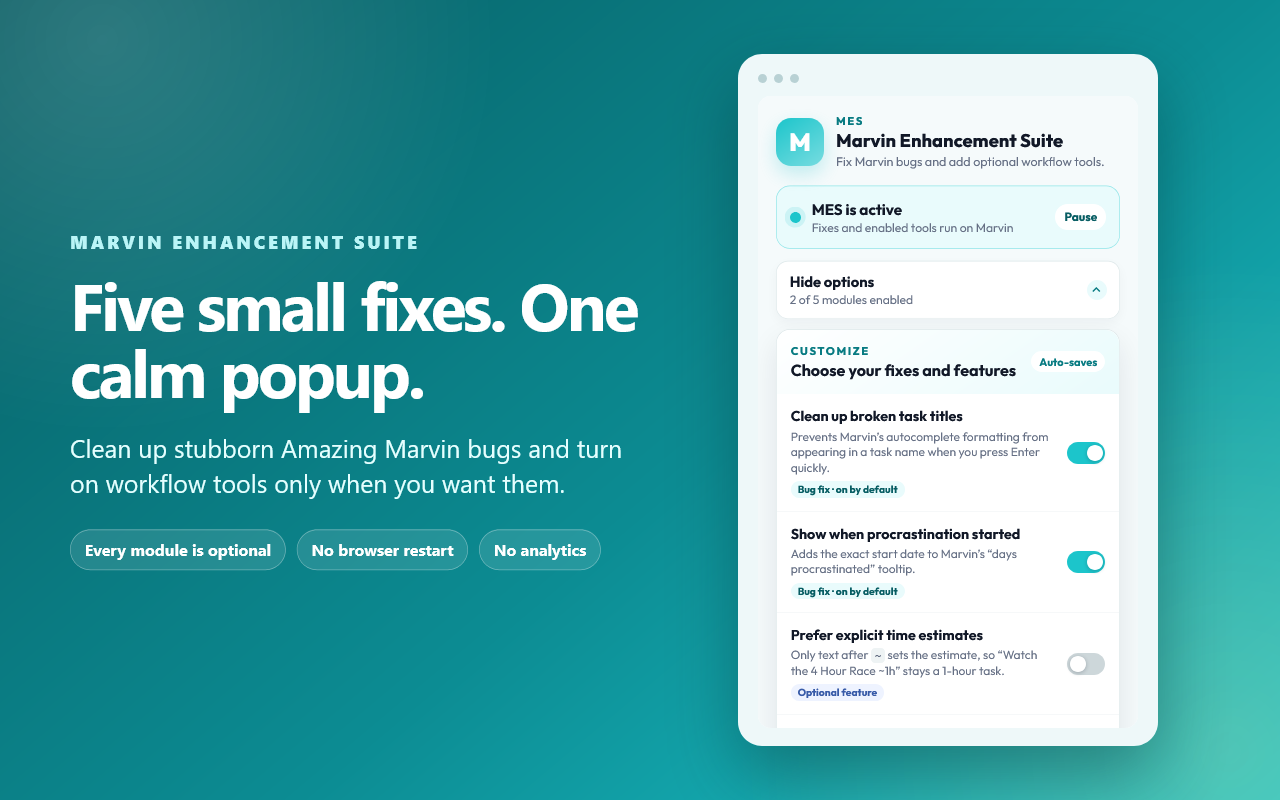
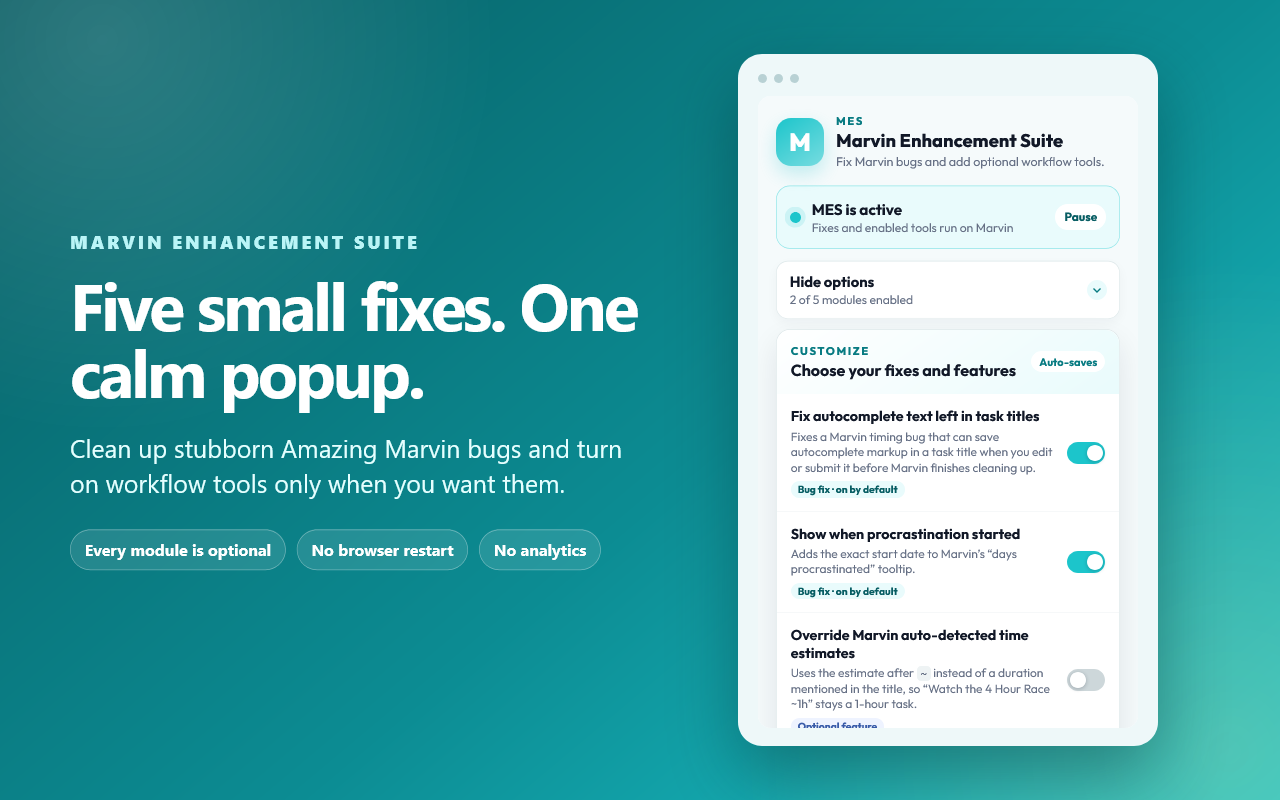
Clarify feature copy and sharpen screenshots

Changed region(s): [[0.5938, 0.7812, 0.875, 0.9062], [0.625, 0.5, 0.8125, 0.5938]]

diff --git a/entrypoints/popup/index.html b/entrypoints/popup/index.html
@@ -54,8 +54,8 @@
         <div class="feature-list">
           <label class="feature-row">
             <span class="feature-copy">
-              <strong>Clean up broken task titles</strong>
-              <small>Prevents Marvin’s autocomplete formatting from appearing in a task name when you press Enter quickly.</small>
+              <strong>Fix autocomplete text left in task titles</strong>
+              <small>Fixes a Marvin timing bug that can save autocomplete markup in a task title when you edit or submit it before Marvin finishes cleaning up.</small>
               <span class="feature-badge fix">Bug fix · on by default</span>
             </span>
             <span class="switch">
@@ -78,8 +78,8 @@
 
           <label class="feature-row">
             <span class="feature-copy">
-              <strong>Prefer explicit time estimates</strong>
-              <small>Only text after <code>~</code> sets the estimate, so “Watch the 4 Hour Race ~1h” stays a 1-hour task.</small>
+              <strong>Override Marvin auto-detected time estimates</strong>
+              <small>Uses the estimate after <code>~</code> instead of a duration mentioned in the title, so “Watch the 4 Hour Race ~1h” stays a 1-hour task.</small>
               <span class="feature-badge enhancement">Optional feature</span>
             </span>
             <span class="switch">
@@ -90,8 +90,8 @@
 
           <label class="feature-row">
             <span class="feature-copy">
-              <strong>Complete or reopen all subtasks</strong>
-              <small>Hover a task and press <kbd>Alt</kbd>+<kbd>Shift</kbd>+<kbd>D</kbd> to change every subtask at once.</small>
+              <strong>Mark all subtasks done or undone</strong>
+              <small>Hover a task and press <kbd>Alt</kbd>+<kbd>Shift</kbd>+<kbd>D</kbd> to toggle every subtask at once.</small>
               <span class="feature-badge enhancement">Optional feature</span>
             </span>
             <span class="switch">
@@ -102,8 +102,8 @@
 
           <label class="feature-row">
             <span class="feature-copy">
-              <strong>Create a task series from one template</strong>
-              <small>Turns “Watch episode (1/3)” or “Review $1..3” into separate numbered tasks, with limits and undo.</small>
+              <strong>Turn one long task into smaller parts</strong>
+              <small>Turns “Watch lecture (1/6) ~30m” into six numbered tasks and offsets any start time for each part.</small>
               <span id="unroller-badge" class="feature-badge experimental">Optional · API setup</span>
             </span>
             <span class="switch">

diff --git a/README.md b/README.md
@@ -21,7 +21,7 @@
 </p>
 
 <p align="center">
-  <img src="docs/assets/mes-popup.png" alt="The Marvin Enhancement Suite popup with its five independently toggleable modules">
+  <img src="docs/assets/mes-popup.png" alt="The Marvin Enhancement Suite popup with its five independently toggleable modules" width="380">
 </p>
 
 Marvin Enhancement Suite (MES) is an unofficial browser extension that bundles conservative bug fixes and opt-in workflow tools for the [Amazing Marvin](https://amazingmarvin.com/) web app. Every module—including default-on fixes—can be disabled from the toolbar popup. Changes apply by reloading open Marvin tabs; a browser restart is never required.
@@ -32,13 +32,59 @@ MES is independent and is not produced, sponsored, or endorsed by Amazing GmbH.
 
 | Module | Default | What it does |
 | --- | --- | --- |
-| Clean up broken task titles | On | Keeps Marvin's autocomplete formatting out of task names when Enter is pressed quickly. |
+| Fix autocomplete text left in task titles | On | Stops Marvin's internal autocomplete markup from being saved into task names. |
 | Show when procrastination started | On | Adds the exact start date to Marvin's “days procrastinated” tooltip. |
-| Prefer explicit time estimates | Off | Only text after `~` sets an estimate, so `Watch the 4 Hour Race ~1h` stays a 1-hour task. |
-| Complete or reopen all subtasks | Off | Changes every subtask at once with `Alt+Shift+D`. |
-| Create a task series from one template | Off | Expands numbered task templates with limits, duplicate protection, confirmation, and best-effort undo. |
+| Override Marvin auto-detected time estimates | Off | Uses your explicit `~` estimate instead of a duration Marvin finds in the title. |
+| Mark all subtasks done or undone | Off | Toggles every subtask at once with `Alt+Shift+D`. |
+| Turn one long task into smaller parts | Off | Expands one numbered task into a satisfying series of smaller tasks. |
 
 Task Unroller is the only module that needs Marvin API credentials. Its setup appears inside the popup only when you want it; MES never blocks first launch or unrelated features on an API key.
+
+### Fix autocomplete text left in task titles
+
+Marvin briefly leaves internal autocomplete markup in the task input after you choose something such as `+Today` or `#health`. A delayed cleanup hook is supposed to remove it. If you edit or submit the task before that hook finishes—especially while typing quickly or backspacing—the extra autocomplete content can be saved as part of the title.
+
+MES makes that cleanup safe and immediate, so the selected date, category, or label still applies without its internal formatting leaking into the task name.
+
+### Show when procrastination started
+
+Marvin can tell you that a task has been procrastinated for a certain number of days, but that makes you calculate the original date yourself. MES adds the exact start date to the existing hover tooltip.
+
+### Override Marvin auto-detected time estimates
+
+Marvin treats duration-like phrases anywhere in a title as a time estimate. That is helpful until the duration is part of the name rather than the work:
+
+```text
+Watch the 4 Hour Race ~1h
+```
+
+Without this module, Marvin can auto-detect `4 Hour` and make it a four-hour task. With the module enabled, the explicit `~1h` wins, so the task keeps the intended one-hour estimate. It also avoids inventing an estimate for a new task that contains a duration-like phrase but no explicit `~` estimate. Estimates set manually through Marvin's controls are preserved.
+
+### Mark all subtasks done or undone
+
+Hover the parent task and press `Alt+Shift+D`. MES marks every unfinished subtask done; use the same shortcut again to mark them all undone. This is useful when the parent task and all of its subtasks should move together.
+
+### Turn one long task into smaller parts
+
+A single three-hour task can feel strangely unrewarding: you work for a long time without getting to finish anything. Task Unroller lets you describe the first part once and creates the rest for you.
+
+Create a new Marvin task like this:
+
+```text
+Watch a really long lecture part (1/6) ~30m
+```
+
+MES keeps that as part `(1/6)` and creates parts `(2/6)` through `(6/6)`, each with the same metadata and 30-minute estimate. You get six concrete stopping points without copying the task or editing every number by hand.
+
+Start the title with a time and MES schedules the parts back to back:
+
+```text
+3:00pm Watch a really long lecture part (1/6) ~30m
+```
+
+The generated series starts at `3:00pm`, `3:30pm`, `4:00pm`, `4:30pm`, `5:00pm`, and `5:30pm`. You can also use range syntax such as `Review lecture notes $1..6`. MES watches only newly created tasks, prevents accidental duplicate expansion, confirms unusually large runs, and offers **Undo latest unroll** in the popup.
+
+Enable Task Unroller and open its setup section to add the two credentials from **Marvin → Features/Strategies → API → View credentials**. The other four modules never need those credentials.
 
 ## Installation
 

diff --git a/docs/store-listing.md b/docs/store-listing.md
@@ -14,13 +14,13 @@ Fix Amazing Marvin browser bugs and add opt-in workflow tools.
 
 Amazing Marvin is great. A few stubborn browser bugs are not. Marvin Enhancement Suite bundles small fixes and optional workflow tools into one extension, with every module controlled from a compact toolbar popup.
 
-Two conservative fixes start on: MES keeps fast autocomplete submissions out of task titles and adds the exact start date to Marvin's “days procrastinated” tooltip. You can turn either one off at any time.
+Two conservative fixes start on: MES prevents Marvin's delayed autocomplete cleanup from leaving internal markup in task titles, and it adds the exact start date to Marvin's “days procrastinated” tooltip. You can turn either one off at any time.
 
 Three optional tools start off:
 
-- Make only text after `~` count as a time estimate, so “Watch the 4 Hour Race ~1h” stays a 1-hour task.
-- Complete or reopen every subtask in a hovered task with Alt+Shift+D.
-- Turn one numbered template into a task series, with expansion limits, duplicate protection, confirmation for large runs, and best-effort undo.
+- Override Marvin's auto-detected estimate with the explicit estimate after `~`, so “Watch the 4 Hour Race ~1h” stays a 1-hour task.
+- Mark every subtask done or undone from a hovered task with Alt+Shift+D.
+- Turn “Watch lecture part (1/6) ~30m” into six numbered tasks. An optional start time is offset for each new part, with duplicate protection, confirmation for large runs, and best-effort undo.
 
 MES works only on the Amazing Marvin web app. It has no analytics, advertising, telemetry, or maintainer-operated server. Four modules run entirely in the browser. Task Unroller is the only feature that needs API credentials; it is off by default, asks separately for Marvin API access, and sends requests directly to Amazing Marvin only after you enable and configure it.
 

diff --git a/CHANGELOG.md b/CHANGELOG.md
@@ -10,3 +10,4 @@ All notable changes to Marvin Enhancement Suite are documented here.
 - Add guarded Task Unroller operations, bounded receipts, and best-effort undo.
 - Build and verify Chrome Manifest V3 and Firefox packages from one WXT codebase.
 - Add marketplace metadata, source archives, CI, and guarded submission tooling.
+- Clarify every module with concrete examples and add a high-DPI popup screenshot.
